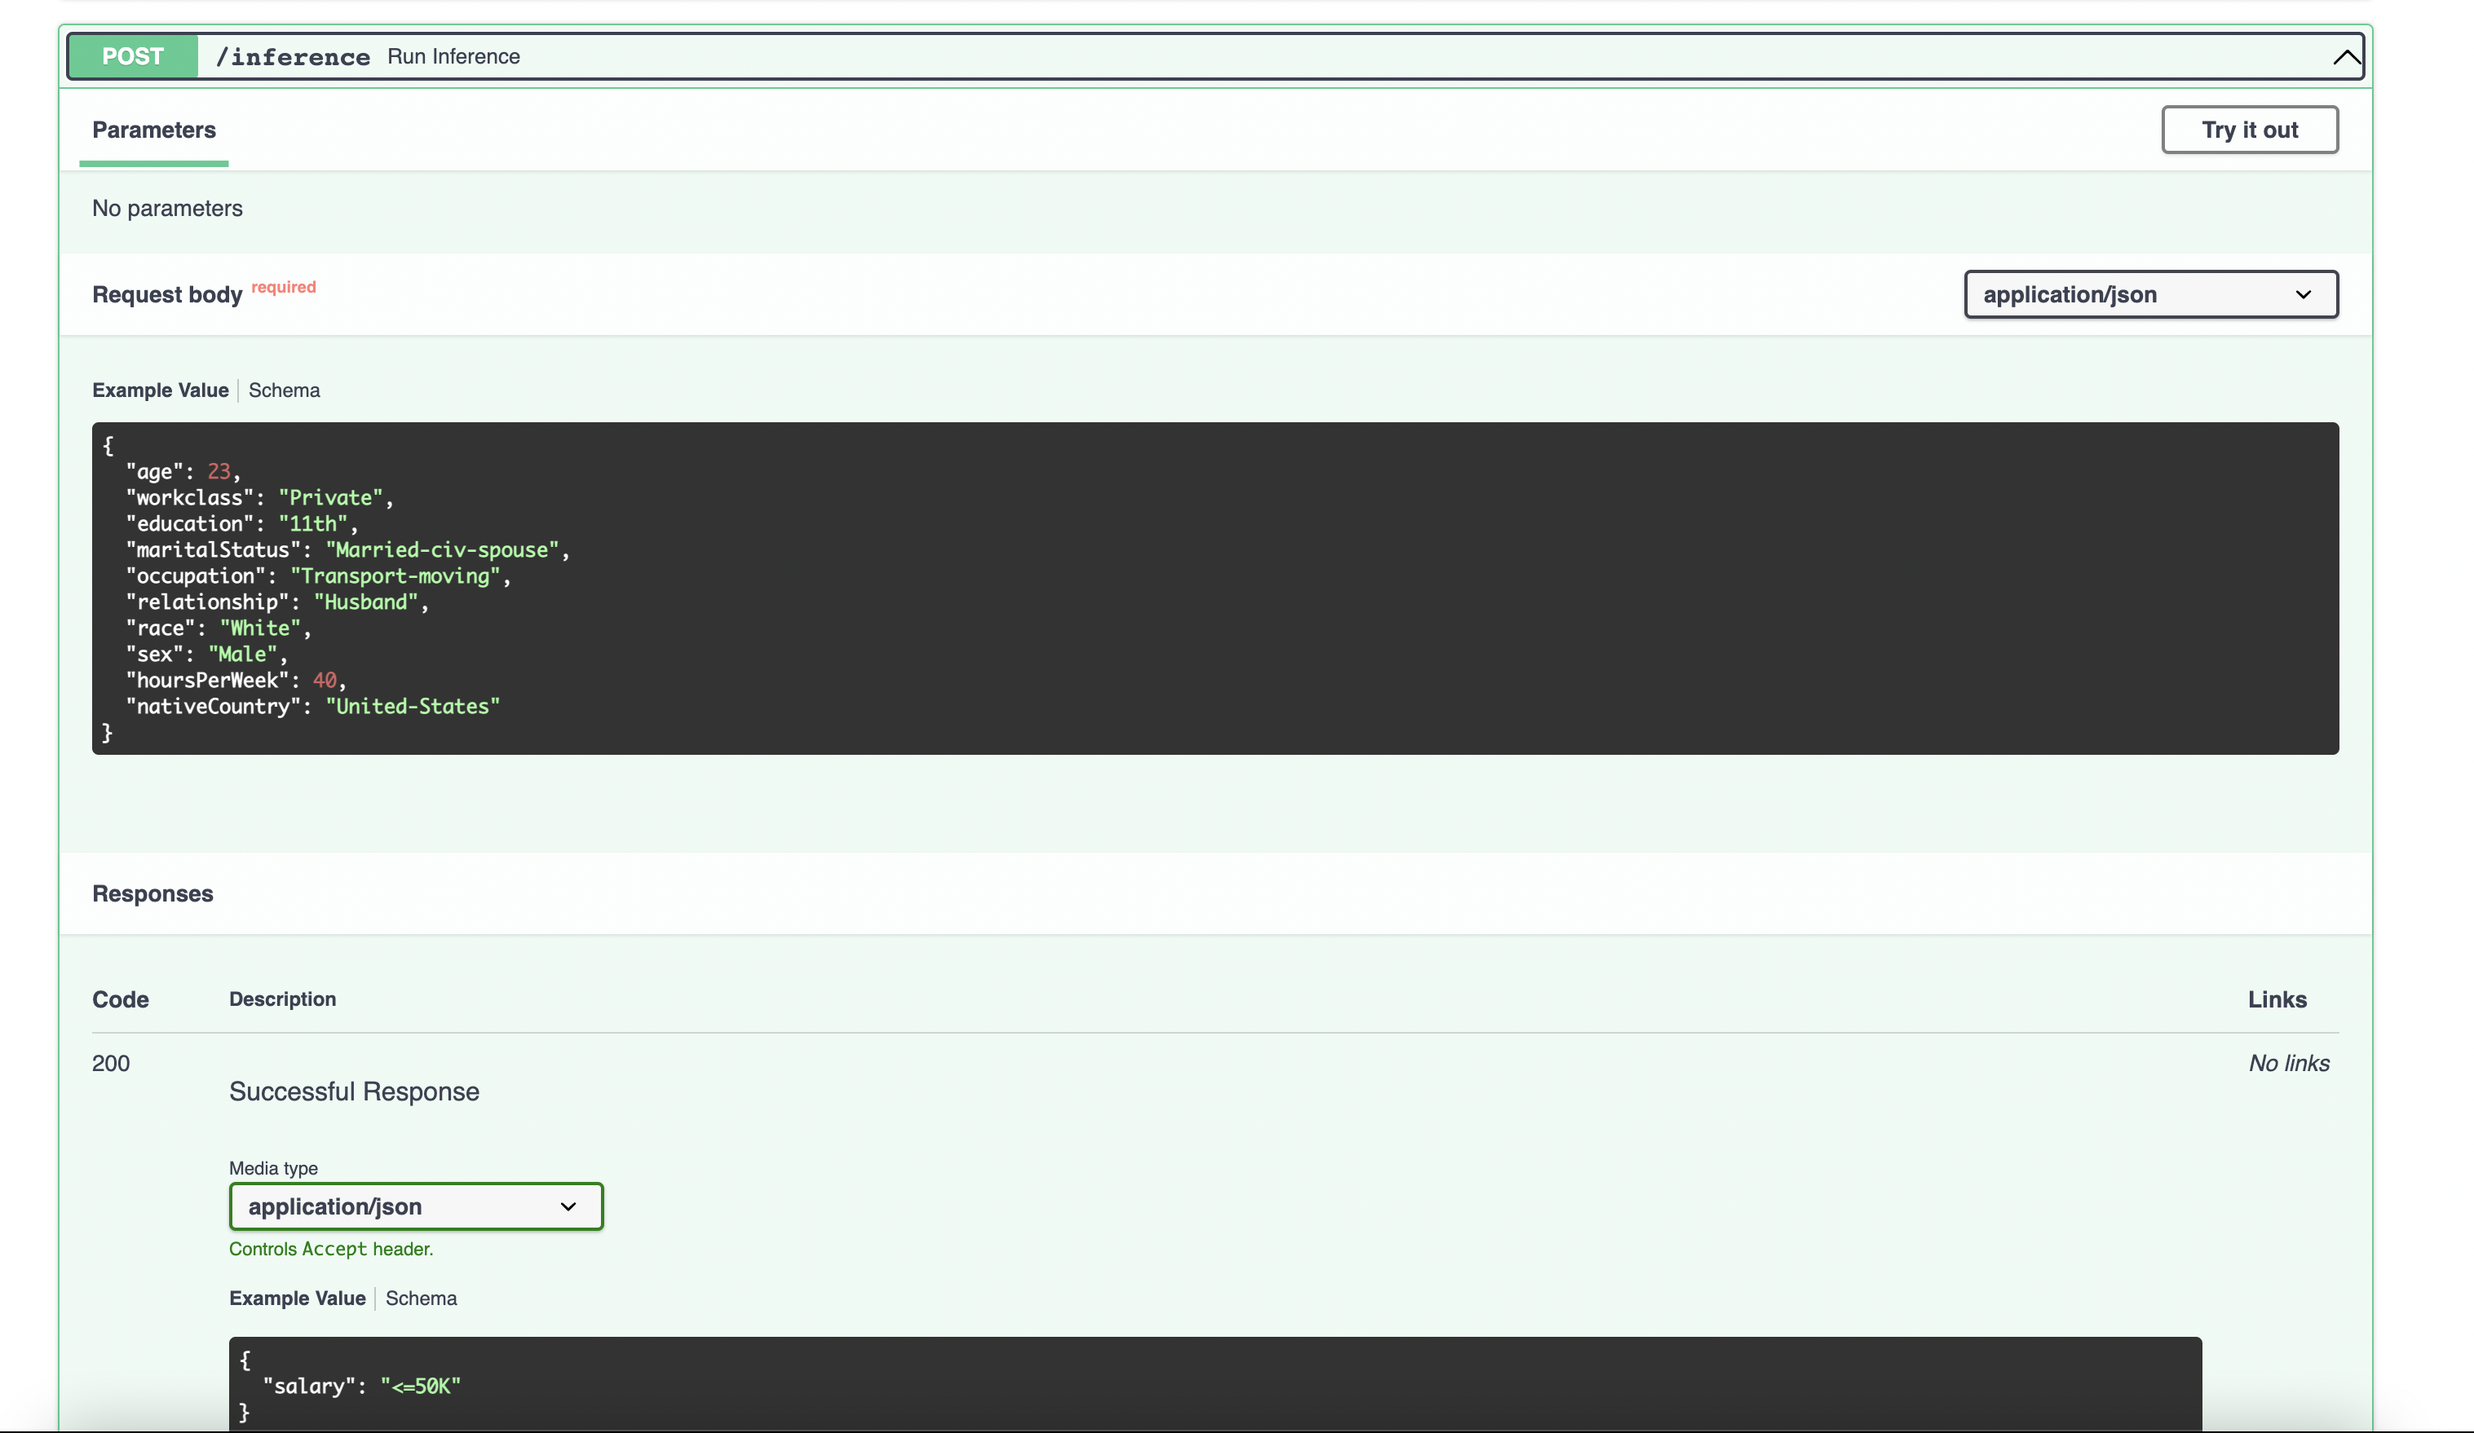
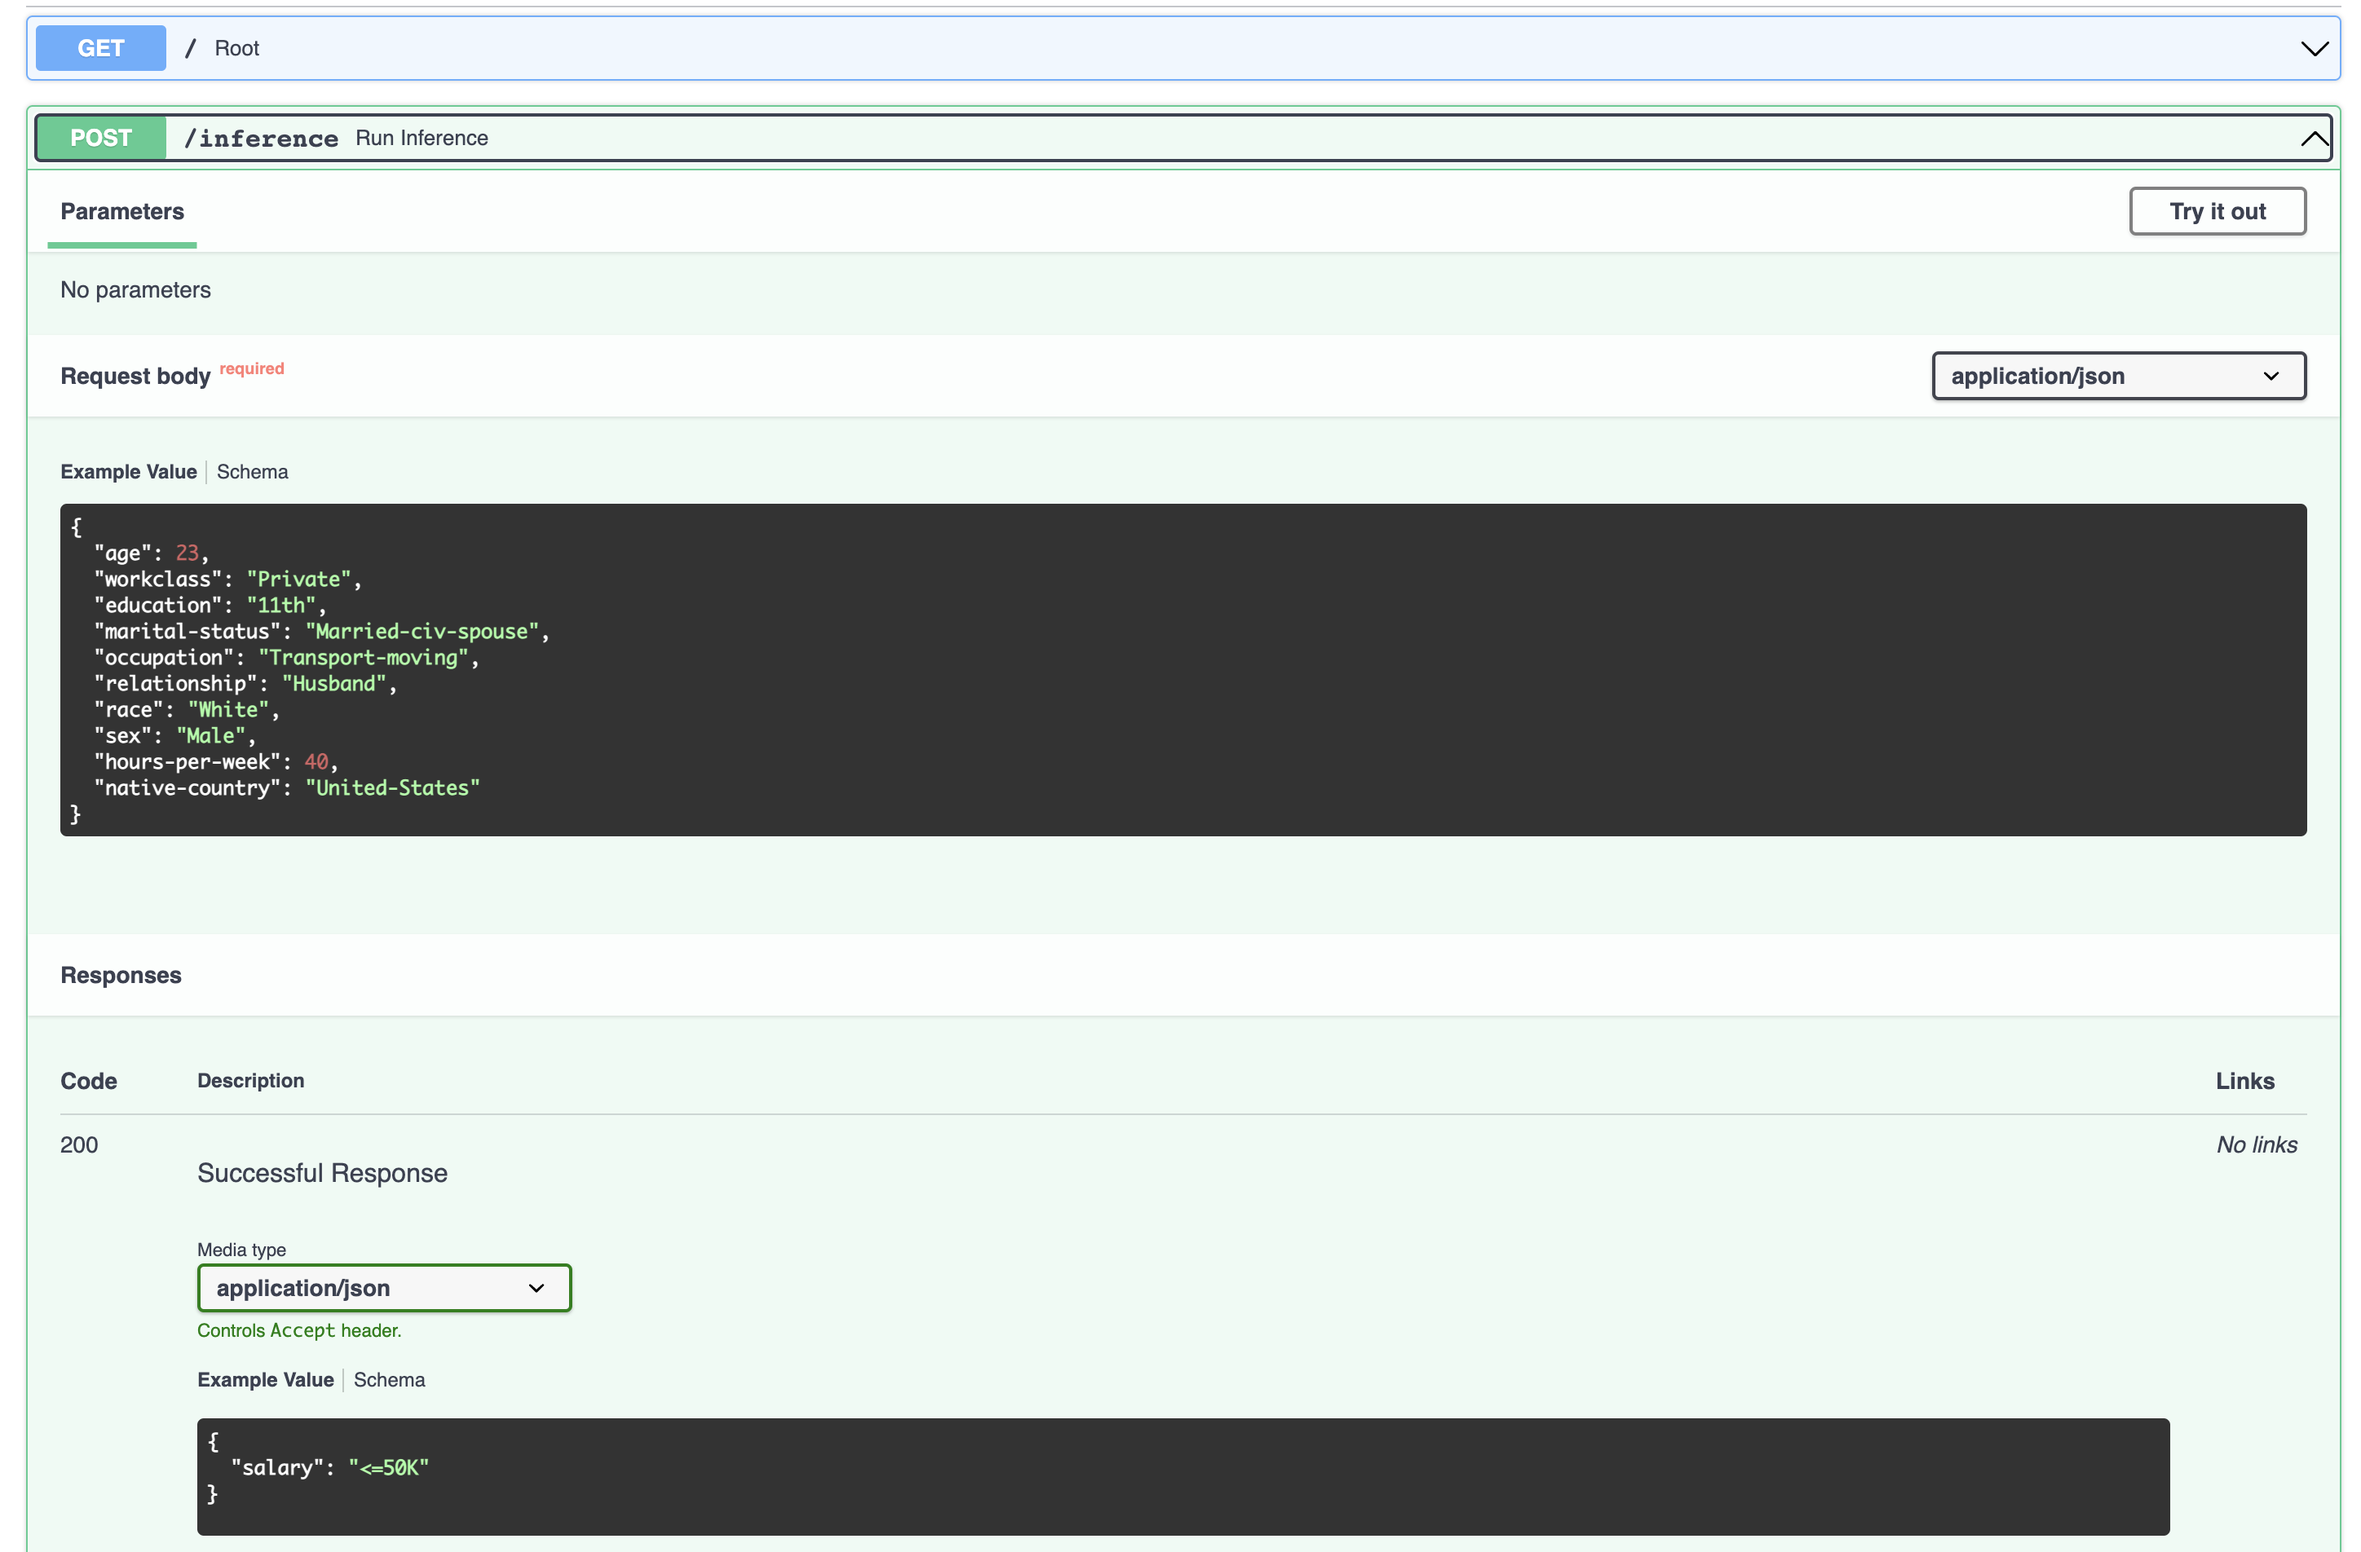
use pydantic field alias for fields with hyphen

diff --git a/api/models.py b/api/models.py
@@ -1,6 +1,6 @@
 from typing import Literal
 
-from pydantic import BaseModel
+from pydantic import BaseModel, Field
 
 
 class Person(BaseModel):
@@ -40,7 +40,7 @@ class Person(BaseModel):
         "Separated",
         "Married-AF-spouse",
         "Widowed",
-    ]
+    ] = Field(alias="marital-status")
     occupation: Literal[
         "Adm-clerical",
         "Exec-managerial",
@@ -62,7 +62,7 @@ class Person(BaseModel):
     ]
     race: Literal["White", "Black", "Asian-Pac-Islander", "Amer-Indian-Eskimo", "Other"]
     sex: Literal["Male", "Female"]
-    hoursPerWeek: int
+    hoursPerWeek: int = Field(alias="hours-per-week")
     nativeCountry: Literal[
         "United-States",
         "Cuba",
@@ -105,7 +105,7 @@ class Person(BaseModel):
         "Ireland",
         "Hungary",
         "Holand-Netherlands",
-    ]
+    ] = Field(alias="native-country")
 
     class Config:
         schema_extra = {
@@ -113,13 +113,13 @@ class Person(BaseModel):
                 "age": 23,
                 "workclass": "Private",
                 "education": "11th",
-                "maritalStatus": "Married-civ-spouse",
+                "marital-status": "Married-civ-spouse",
                 "occupation": "Transport-moving",
                 "relationship": "Husband",
                 "race": "White",
                 "sex": "Male",
-                "hoursPerWeek": 40,
-                "nativeCountry": "United-States",
+                "hours-per-week": 40,
+                "native-country": "United-States",
             }
         }
 

diff --git a/tests/test_api.py b/tests/test_api.py
@@ -17,13 +17,13 @@ def test_inference_endpoint():
         "age": 23,
         "workclass": "Private",
         "education": "11th",
-        "maritalStatus": "Married-civ-spouse",
+        "marital-status": "Married-civ-spouse",
         "occupation": "Transport-moving",
         "relationship": "Husband",
         "race": "White",
         "sex": "Male",
-        "hoursPerWeek": 40,
-        "nativeCountry": "United-States",
+        "hours-per-week": 40,
+        "native-country": "United-States",
     }
     res = client.post("/inference", json=request_body)
     res_json = res.json()
